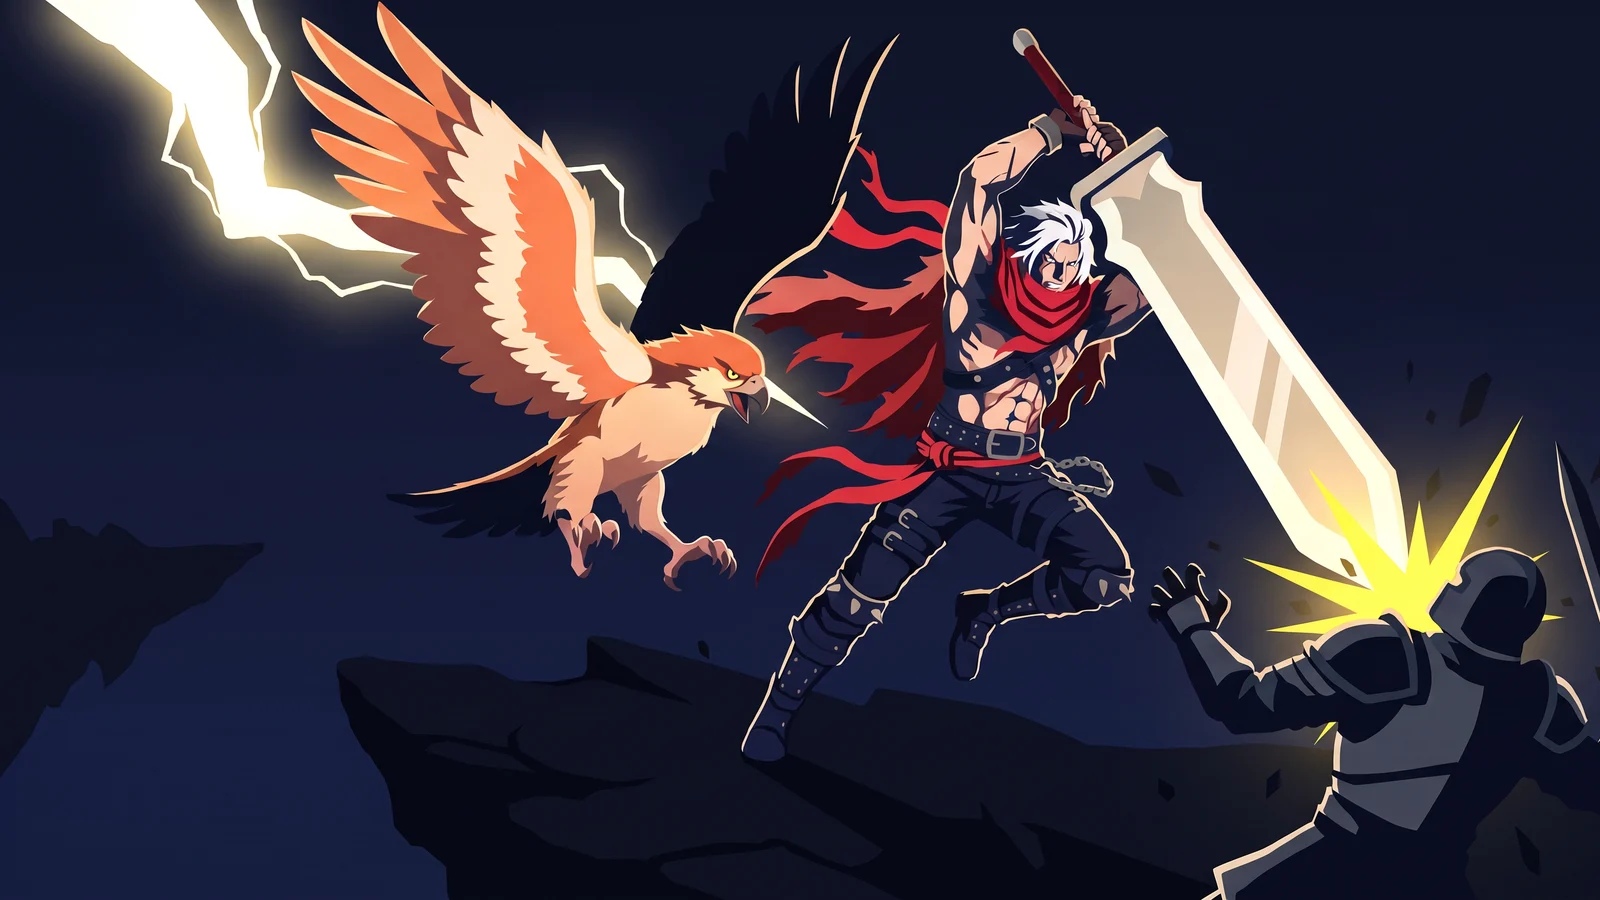
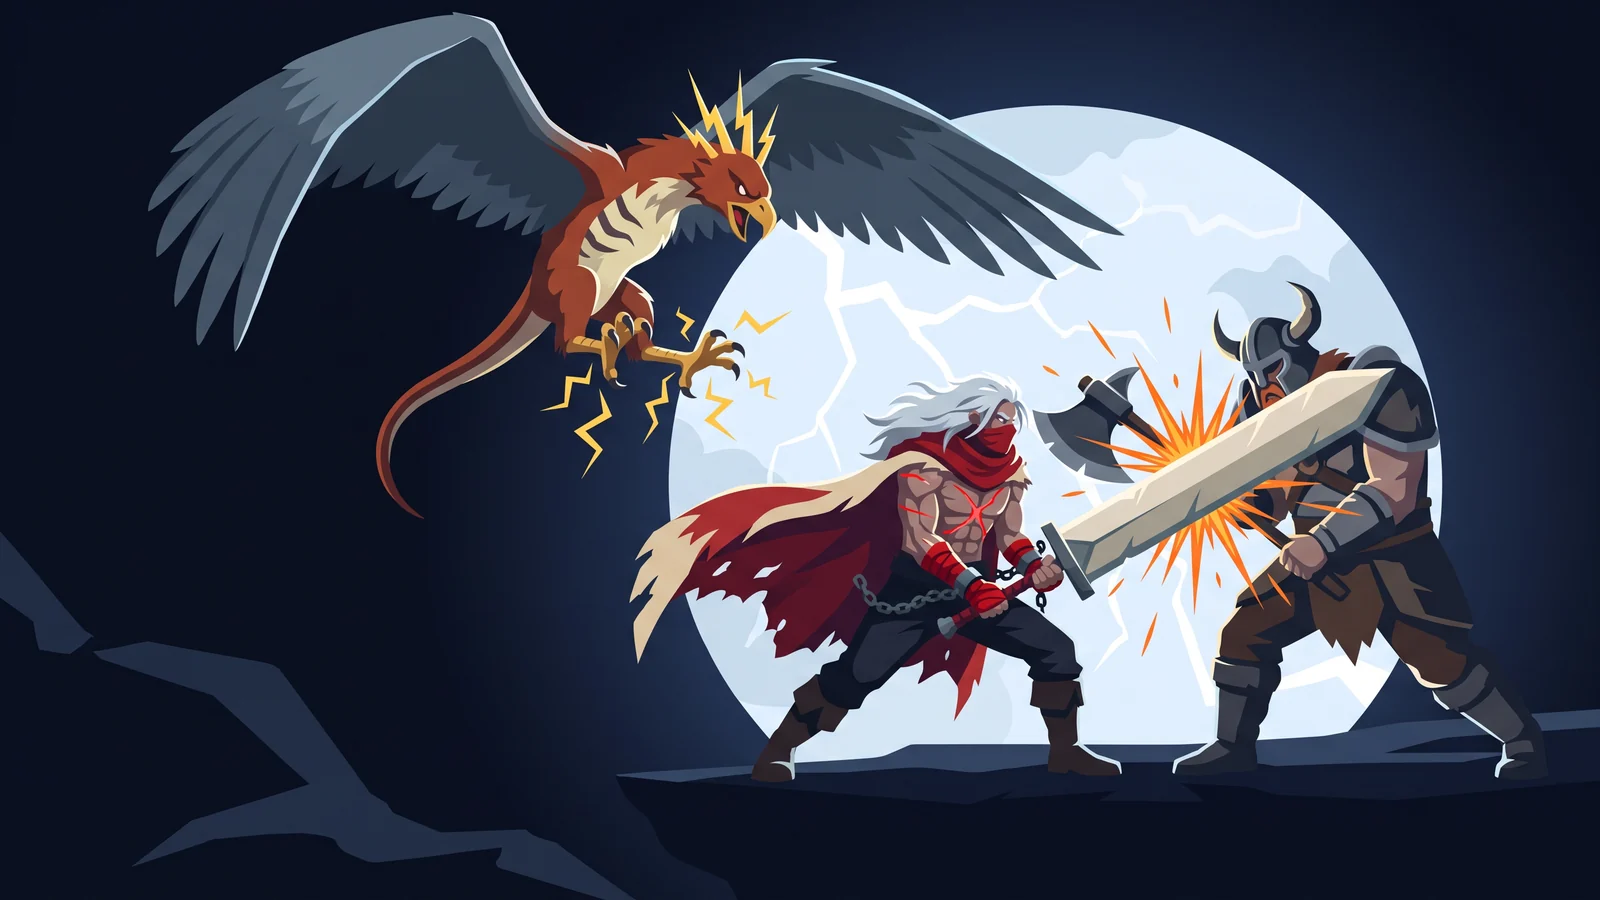
Site key art r2: new fight picture (live E style, new composition, on-model Boki)
Revert: /home/boki/meshy/keyart-r2-1113/revert.sh fight

diff --git a/presskit.html b/presskit.html
@@ -82,7 +82,7 @@
         <p>No loot boxes, paid eggs, energy or timers. Boki and power are never sold. Players pay for the game and cosmetics. Open source under GPL-3.0.</p>
         <h2>Key art</h2>
         <a class="pk-key" href="assets/img/key/hero-2576.webp?v=9" target="_blank"><img src="assets/img/key/hero-1600.webp?v=9" width="2576" height="1449" alt="Sparkle and her Boki watch a glowing egg crack open in a dark forest" loading="lazy"></a>
-        <a class="pk-key" href="assets/img/key/fight-2400.webp?v=8" target="_blank"><img src="assets/img/key/fight-1600.webp?v=8" width="2576" height="1449" alt="Kael and his Boki, Voltalon, strike an enemy together in a burst of lightning" loading="lazy"></a>
+        <a class="pk-key" href="assets/img/key/fight-2400.webp?v=9" target="_blank"><img src="assets/img/key/fight-1600.webp?v=9" width="2576" height="1449" alt="Kael and his Boki, Voltalon, strike an enemy together in a burst of lightning" loading="lazy"></a>
         <a class="pk-key" href="assets/img/lore/dropw-2400.webp?v=8" target="_blank"><img src="assets/img/lore/dropw-1600.webp?v=8" width="2576" height="1449" alt="Albert, Lace and Vex dive from the airship with their Boki" loading="lazy"></a>
         <a class="pk-key" href="assets/img/lore/vault-2400.webp?v=8" target="_blank"><img src="assets/img/lore/vault-1600.webp?v=8" width="2576" height="1449" alt="Sable and her Boki, Lockatara, open a vault" loading="lazy"></a>
         <a class="pk-key" href="assets/img/key/tent-2400.webp?v=8" target="_blank"><img src="assets/img/key/tent-1600.webp?v=8" width="2576" height="1438" alt="Tenzo bandages a young Boki's paw in a tent" loading="lazy"></a>

diff --git a/index.html b/index.html
@@ -245,7 +245,7 @@
         <figcaption>Each Boki is 100% unique, with its own traits, mutations and personality.</figcaption>
       </figure>
       <figure class="pillar" data-r>
-        <img src="assets/img/key/fight-1600.webp?v=8" srcset="assets/img/key/fight-960.webp?v=8 960w, assets/img/key/fight-1600.webp?v=8 1600w, assets/img/key/fight-2400.webp?v=8 2400w" sizes="(max-width: 900px) 100vw, 620px" width="2576" height="1449" alt="Kael and his Boki, Voltalon, strike an enemy together in a burst of lightning" loading="lazy" decoding="async">
+        <img src="assets/img/key/fight-1600.webp?v=9" srcset="assets/img/key/fight-960.webp?v=9 960w, assets/img/key/fight-1600.webp?v=9 1600w, assets/img/key/fight-2400.webp?v=9 2400w" sizes="(max-width: 900px) 100vw, 620px" width="2576" height="1449" alt="Kael and his Boki, Voltalon, strike an enemy together in a burst of lightning" loading="lazy" decoding="async">
         <figcaption>Your Boki fights beside you in every match.</figcaption>
       </figure>
     </div>
